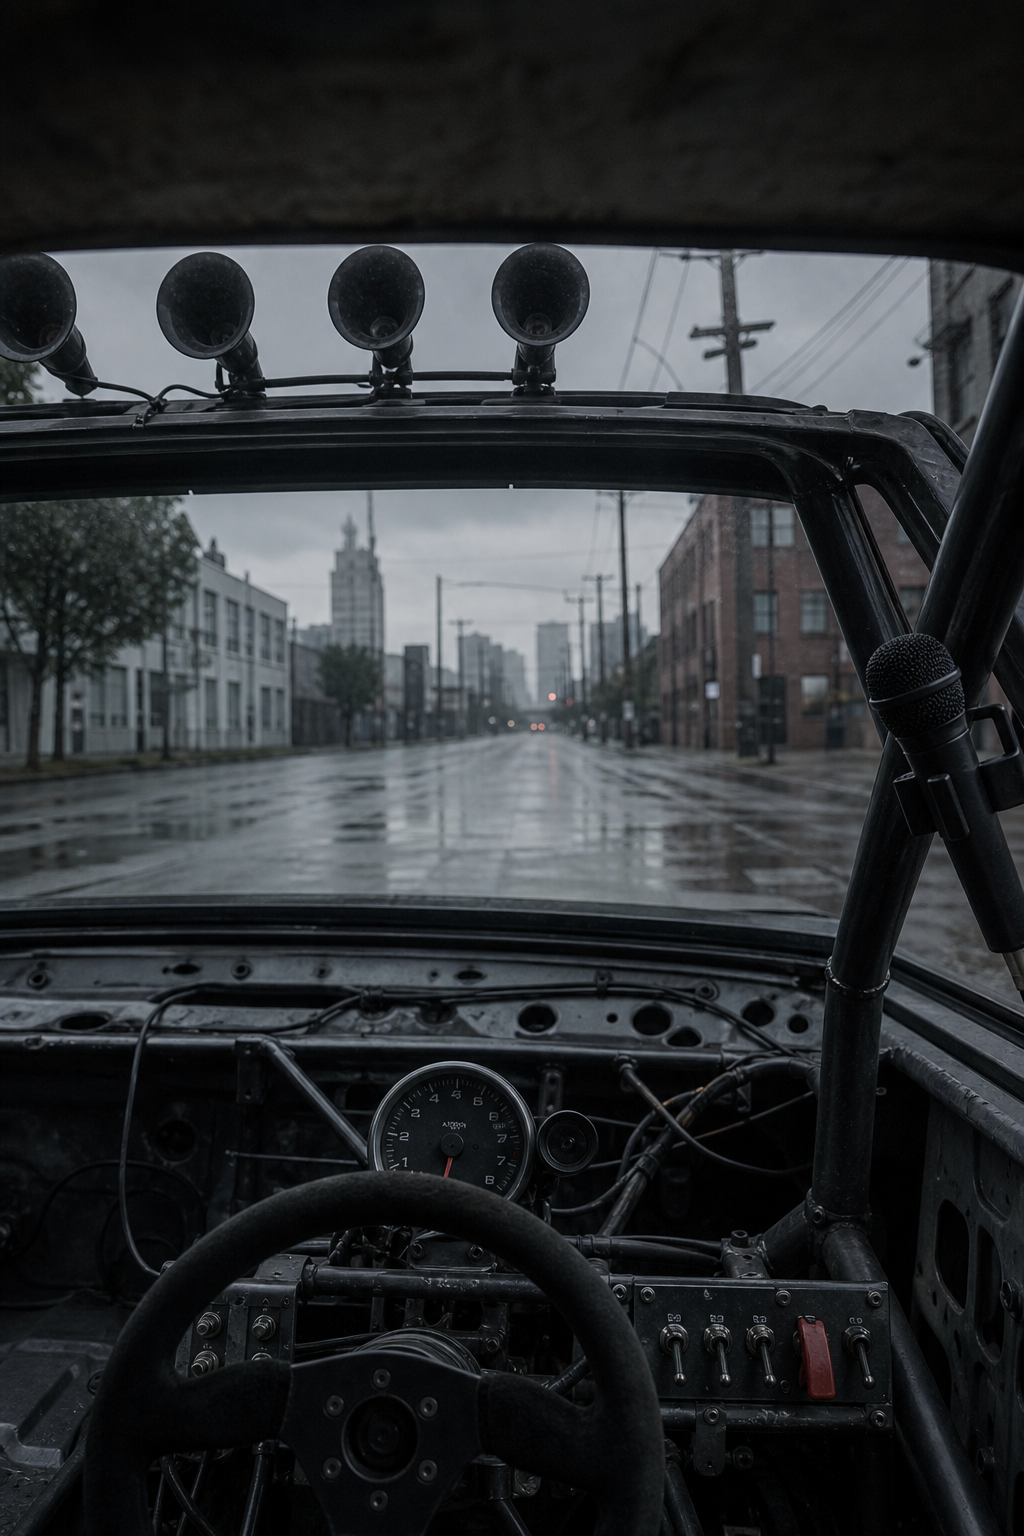
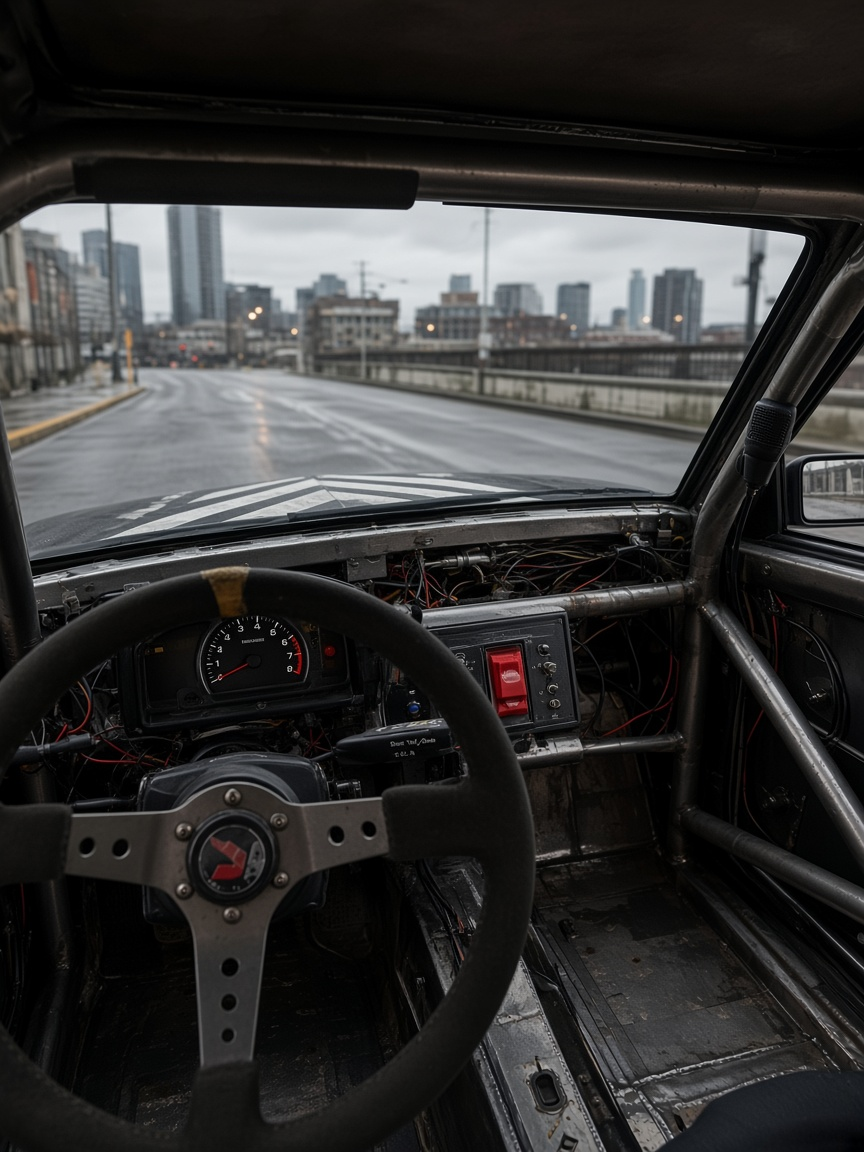
Draft IV-001 ride-along stills map and lock Encore glass.
Five named-spot briefs (count-in, brake, person, tracks, handoff),
four-take prompts, and the Y3 take 12 / Y4 take 4 plates so Batch D
can compile from intact glass. No scored IV-001 card.

diff --git a/cards/drafts/IV-001-stills-map.md b/cards/drafts/IV-001-stills-map.md
@@ -1,0 +1,123 @@
+# IV-001 — Batch D stills map
+
+Draft authority: `cards/drafts/IV-001-ridealong-lines.md`. Not a scored card. No `cards/IV-001.json`.
+
+Five frames, each a named spot — same job as III-001's left / merge / horn stills. Not a text slideshow on one cockpit. Bike (line 9) is a later tap, not this batch.
+
+Driver: `yuna`. Continuity: Encore cockpit (Y4 take 4) + stock-glass-first sheet (Y3 take 12). Overcast PNW daylight through intact glass. No cooler / COLD. No Quiet. Dead in-ears around Yuna's neck, **both out**. Ali on the welded rear bench; she does not touch the wheel until frame 5.
+
+Attachments on every compile: `ref_encore_cockpit.png`, `ref_encore_sheet.png`. Add `ref_yuna.png` / `ref_yuna_sheet.png` on count-in. Add `ref_ali2.png` on handoff. Stock-glass-first if any exterior peek; never put cage, bench, or stripped dash in an exterior clause.
+
+| Frame | Slug | Line | Named spot | Camera (explicit) |
+|---|---|---|---|---|
+| 1 | `IV-001-count-in` | 1 | the count-in | On the welded rear bench, looking forward-left. Yuna occupies the **left third of the FRAME**; rain-dotted windshield + street occupy the **right two-thirds**. |
+| 2 | `IV-001-brake` | 3 | covering the brake | Low in the driver footwell, looking down at the pedals. Brake pedal **center of the FRAME**. Windshield + light only in the **top fifth**, soft. |
+| 3 | `IV-001-person` | 5 | the person between parked cars | On the bench, looking forward-right through glass. The living pedestrian is **right-center of the FRAME**, curb distance. Wheel + Yuna's hands **lower-left**. |
+| 4 | `IV-001-tracks` | 7 | tracks in the lane | On the bench, looking forward and slightly **down** through glass. Wet rails **center of the FRAME**, running away in this lane. Wheel **bottom-left**. |
+| 5 | `IV-001-handoff` | 12 | the empty seat / wheel | On the bench, looking forward-left at the empty driver seat. Empty seat **left-center**. Empty suede wheel **lower-left**. Ali reaching from the **right** of the FRAME. |
+
+Takes: `cards/takes/<slug>-take-N.png` (N = 1–4). Prompts: `cards/takes/<slug>.prompt.txt`.
+
+---
+
+## Shared lock (every frame)
+
+Encore cockpit match: small suede-wrapped racing wheel on the **left** (LHD), stripped metal dash, exposed taped wiring, one aftermarket tach, toggle panel with one large guarded red switch left off, welded roll-cage tubes at the A-pillars, enclosed solid roof, dead wireless mic on the right cage tube. Intact windshield is a real glass plane with raindrops on the outside — not an open hole, not mesh, not a bar cage over the glass. Do not show roof PA horns from inside.
+
+Ali, frames 1–4: on the mismatched welded rear bench. Hands on her knees. Not on the wheel.
+
+---
+
+## Frame 1 — the count-in (line 1)
+
+**Line:** Count me in. One — two. Watch the street, not my mouth.
+
+```json
+{
+  "slug": "IV-001-count-in",
+  "camera": "POV_COCKPIT",
+  "camera_pose": "Camera sits on the mismatched welded rear bench, slightly left of cabin center, looking forward and a little left. Yuna in the driver seat occupies the left third of the FRAME, seen from behind her right shoulder (three-quarter from behind). Intact rain-dotted windshield and the wet downtown street occupy the right two-thirds of the FRAME. The suede wheel sits in the lower-left quadrant under her left hand.",
+  "subject": "Yuna mid count-in: right hand raised at chest height on a two-beat, mouth barely open, eyes on the street through the glass not at camera. Dead in-ear monitors around her neck, both earpieces out and dangling on the cropped black windbreaker. Asymmetric chin-length bob, platinum under-layer, thin braid at her right temple with retroreflective tape.",
+  "foreground": "welded rear-bench cushion along the bottom edge; Ali's hands rest on her own knees — they do not touch the wheel; a cage tube at the right edge",
+  "midground": "Yuna in the left seat, count-in hand, empty right half of the stripped dash, guarded red switch off",
+  "background": "overcast downtown Seattle through rain-dotted intact glass, wet pavement, no readable signs",
+  "read": "Yuna is counting in with her hand; both in-ears are out around her neck; the street is visible through intact glass",
+  "continuity": ["encore_cockpit", "encore", "yuna"]
+}
+```
+
+## Frame 2 — covering the brake (line 3)
+
+**Line:** Cover the brake before the light even thinks about yellow. Foot off the gas. Held. Not riding it.
+
+```json
+{
+  "slug": "IV-001-brake",
+  "camera": "POV_OBJECT",
+  "camera_pose": "Camera is low in the left-hand-drive driver footwell, near the dead pedal, looking down and slightly forward at the pedal box. The brake pedal occupies the center of the FRAME. Intact windshield and a distant traffic light occupy only the top fifth of the FRAME, out of focus. No faces.",
+  "subject": "a right foot in a black high-top covering the brake pedal, held still, not pumping, not riding the pedal. The gas pedal to the right of the brake is empty — no foot on it.",
+  "foreground": "worn metal pedals with rubber covers, painted floor, a roll-cage tube at the left edge of the FRAME",
+  "midground": "the covering foot and ankle, a sliver of black track pant; the empty gas pedal",
+  "background": "soft rain-dotted windshield; a yellow traffic light far ahead through glass, no readable sign legend",
+  "read": "the right foot covers the brake and is held; the gas is empty",
+  "continuity": ["encore_cockpit"]
+}
+```
+
+## Frame 3 — the person between parked cars (line 5)
+
+**Line:** Person between the parked cars. I do not own the right of way. I own the stop.
+
+Living pedestrian. Not the Quiet. Upright, ordinary clothes, mid-block.
+
+```json
+{
+  "slug": "IV-001-person",
+  "camera": "POV_COCKPIT",
+  "camera_pose": "Camera sits on the welded rear bench looking forward and slightly right through the intact windshield. The named spot — a living person in the gap between two parked cars — occupies the right-center of the FRAME, at curb distance beyond the glass. The suede wheel and Yuna's hands occupy the lower-left of the FRAME.",
+  "subject": "through rain-dotted intact glass, an ordinary living adult in a dark raincoat, upright and mid-step, appearing in the gap BETWEEN two parked sedans along the right curb. Not slack-shouldered, not filthy, not the Quiet. A person who might walk out.",
+  "foreground": "suede racing wheel; Yuna's hands at ten-and-two (light-medium skin, black windbreaker cuffs, retroreflective piping). Ali's hands on her knees on the bench at the bottom edge — not on the wheel.",
+  "midground": "rain-dotted windshield, roll-cage A-pillar at the right of the FRAME, two parked sedans on the right curb with a body-width gap",
+  "background": "overcast downtown block, wet pavement, no readable signs",
+  "read": "a living person is in the gap between parked cars on the right; Encore is looking at them through intact glass",
+  "continuity": ["encore_cockpit", "encore"]
+}
+```
+
+## Frame 4 — tracks in the lane (line 7)
+
+**Line:** Tracks in this lane. The train does not swerve. We do.
+
+```json
+{
+  "slug": "IV-001-tracks",
+  "camera": "POV_COCKPIT",
+  "camera_pose": "Camera sits on the welded rear bench looking forward and slightly down through the intact windshield. Wet streetcar rails in THIS travel lane occupy the center of the FRAME, starting at the hood line and running away. The suede wheel occupies the bottom-left of the FRAME.",
+  "subject": "wet steel streetcar tracks set into the asphalt of the lane Encore is in. The rails catch the overcast sky. They run straight. They do not swerve.",
+  "foreground": "suede racing wheel, Yuna's hands holding it; a sliver of silver chevron on the hood seen through the glass",
+  "midground": "two wet rails in the travel lane, rain-dotted windshield, painted lane line",
+  "background": "downtown Seattle street under overcast, no readable signs; if a streetcar exists it is distant and small, never filling the frame",
+  "read": "the tracks run in this lane; the train would not swerve",
+  "continuity": ["encore_cockpit", "encore"]
+}
+```
+
+## Frame 5 — the handoff with the empty seat (line 12)
+
+**Line:** Your wheel.
+
+Only frame Ali may touch the wheel. Yuna is not in the seat.
+
+```json
+{
+  "slug": "IV-001-handoff",
+  "camera": "POV_COCKPIT",
+  "camera_pose": "Camera sits on the welded rear bench looking forward-left at the empty driver seat and the empty suede wheel. The empty seat occupies the left-center of the FRAME. The empty wheel occupies the lower-left. Ali occupies the right of the FRAME as she reaches from the bench.",
+  "subject": "the driver seat is empty. The suede racing wheel has no hands on it until Ali's reaching hand. This is the handoff.",
+  "foreground": "mismatched welded rear bench; Ali (medium-brown skin, wire-rim glasses, cranberry lattice braid, gold hoop, pink raglan hoodie) leaning forward from the bench, right hand reaching the empty wheel",
+  "midground": "empty driver seat, empty suede wheel, stripped dash, guarded red switch off, dead in-ears left on the cage tube",
+  "background": "overcast street through rain-dotted intact glass. Yuna is not in the seat. If she appears at all it is only a sliver of black windbreaker at the left door, mostly out of frame.",
+  "read": "the driver seat is empty; Ali is taking the wheel from the bench",
+  "continuity": ["encore_cockpit", "encore", "ali"]
+}
+```

diff --git a/refs/LOCKS.md b/refs/LOCKS.md
@@ -13,12 +13,34 @@ Never mix panels across takes. Winners only.
 | Yuna turnaround | Y1 take 6 | `ref_yuna_sheet.png` | First four takes put the braid on her left. Take 6: braid at her right temple, right IEM in, left dangling, platinum under-layer. |
 | Yuna portrait | Y2 take 1 | `ref_yuna.png` | Right IEM in, left dangling; retroreflective piping flares; matches take-6 sheet. |
 | Ledger four-view | D3 take 2 | `ref_ledger_sheet.png` | Oversize convex mirrors are the silhouette; amber destination sign with no readable text. |
-| Encore four-view | Y3 take 3 | `ref_encore_sheet.png` | Wedge + four roof horns + chevrons; no mesh. All four takes stripped the glass — bible wants glass with no mesh. Silhouette still reads. Rerun before cockpit lock if glass matters. |
+| Encore four-view | **Y3 take 12** (stock-glass-first) | `ref_encore_sheet.png` | Intact factory glass on all four views — windshield, side glass, rear hatch. 1990s three-door wedge, tape, chevrons, four PA horns. Promoted from `ref_encore_sheet_y3_take12.png`. Take 3 moved to `ref_encore_sheet_y3_take3.png` (open cabin, history). |
 | Convoy silhouette | G1 take 2 | `ref_convoy.png` | Round / box / wedge reads at a glance. Only take that kept Encore's PA horns; 1, 3, 4 turned them into spotlights. Overcast PNW, no salt-flat bleed. |
 | II-007 card art | take 2 | `../cards/II-007.png` | Amber lamps lit; enough pavement that the open left lane reads. Invented fallen tree is compiler drift — do not carry into later Kent cards. Takes 3–4 lit the reds/brakes and are unusable. |
 | Ledger cockpit | D4 take 2 | `ref_ledger_cockpit.png` | Locked from `cards/takes/D4-take-2.png` (1 Sep 2026). Match this cab: worn three-spoke wheel, analog cluster, bar cage, thermos in the right cup, no clipboard on the mesh. Never the old poisoned cockpit. Never a Menace ref on Deac cards. |
-| Encore cockpit | Y4 take 1 | `ref_encore_cockpit.png` | Four PA horns, mic on the cage, guarded red switch. Takes 2 and 4 turned horns into spotlights. Glass may read as missing — compiler still forces intact glass on exteriors. |
+| Encore cockpit | **Y4 take 4** (provisional) | `ref_encore_cockpit.png` | Enclosed roof, no interior PA horns, wet downtown through the opening, mic on the right cage tube. Glass still needs Claude — raindrops did not land on this plate (see IV-002 take 3 for rain-on-glass). Old open-air lock archived as `ref_encore_cockpit_y4_take1.png`. Takes 1–3: take 1 has switch-label text; take 2 is a cabin overview; take 3 has Seattle but a more open hole. Interior cage and bench belong here; they must not appear in exterior briefs. |
 | The Quiet — register lock | A3 take 3 | `ref_quiet.png` | Attach on every Quiet compile. Filthy, slack-shouldered, head canted, doing nothing, seen through dirty glass. Wrongness of posture and stillness — not damage. Same file as `ref_quiet_a3.png`. |
 | Quiet plates | probe keeps | `ref_quiet_a1.png` `ref_quiet_a2.png` `ref_quiet_a3.png` `ref_quiet_a4.png` `ref_quiet_a5.png` | A1 take 3 still, facing away. A2 take 1 head tilt. A3 take 3 the register. A4 take 1 lot, spread, not converging. A5 take 3 the lunge — near-legible, once in the game. A1, A2, A4 are reference, not card art. |
 
 Ali face: prefer `ref_ali2.png` (wire-rim rounds + raglan hoodie). `ref_ali1.jpg` has thick black frames — do not mix.
+
+## Encore Y3 glass rerun
+
+**Approach change.** Takes 5–10 used the old exterior brief (stripped / gutted / roll cage / bucket seat / welded bench). Those are interior facts — they belong only in Y4. New Y3 prompt is stock-glass-first: intact factory hatchback, then tape, chevrons, roof horns. No interior hardware in the exterior brief.
+
+| Take | File | Glass | Notes |
+|---|---|---|---|
+| Y3 take 3 (old lock) | `ref_encore_sheet_y3_take3.png` | FAIL | Open cabins, all four views. History only. Was `ref_encore_sheet.png`. |
+| Y3 take 5 | `ref_encore_sheet_y3_take5.png` | FAIL | Dark voids, cage in open air. Old brief. |
+| Y3 take 6 | `ref_encore_sheet_y3_take6.png` | FAIL / maybe tint | Darker window fills than take 3; no specular. Old brief. |
+| Y3 take 7 | `ref_encore_sheet_y3_take7.png` | FAIL | Golf silhouette, empty openings. Old brief. |
+| Y3 take 8 | `ref_encore_sheet_y3_take8.png` | FAIL | Front/side open. Horns became spotlights. Old brief. |
+| Y3 take 9 | `ref_encore_sheet_y3_take9.png` | CLOSEST old-brief | Glass on three views; front-on reads as a dark void at sheet scale. Not locked. Composite source. |
+| Y3 take 10 | `ref_encore_sheet_y3_take10.png` | FAIL | Front 3/4 reflection only; other views open. Old brief. |
+| Y3 take 11 | `ref_encore_sheet_y3_take11.png` | PASS glass — not locked | Stock-glass-first 1×4. Glass on all four. Body drifted: modern five-door, weak tape, horn count inconsistent. Identity fail. |
+| Y3 take 9 composite A | `ref_encore_sheet_y3_take9_composite.png` | candidate | Take 9 + `ref_encore_front_on_glass_plate.png`, letterboxed. Front-on undersized. |
+| Y3 take 9 composite B | `ref_encore_sheet_y3_take9_composite_b.png` | candidate | Take 9 + front-on plate, width-matched. Clearest front-on specular. Mixed-generation panels; scale slightly large. |
+| **Y3 take 12 (LOCK)** | `ref_encore_sheet_y3_take12.png` → `ref_encore_sheet.png` | **PASS all four** | Stock-glass-first, take 9 attached as body ref only. Intact glass on windshield, sides, hatch. Same 1990s three-door as take 9. |
+
+Front-on plate used for the composites: `ref_encore_front_on_glass_plate.png`.
+
+Encore exterior compiles are **unblocked**. Compiler still appends the intact-glass clause and the no-interior-in-exterior rule (`scripts/compile-prompt.js`).

diff --git a/cards/drafts/IV-001-ridealong-lines.md b/cards/drafts/IV-001-ridealong-lines.md
@@ -1,0 +1,28 @@
+# IV-001 — Ride-along: Yuna's twelve
+
+Watch-layer debut. **Do not auto-generate the full card yet.** These twelve lines are for human review, then the card JSON (beats, stills, image brief) gets built by hand the way III-001 / pack/22 did.
+
+Yuna drives Encore. Ali rides the welded bench. Ali does not touch the wheel until the last line. Stage cadence — a count-in, then the street. She is loud and clean. Ali cannot decide skill vs luck. Ends on the handoff.
+
+Skill ten: city driving – part one. The Core. Encore. Intact glass, no mesh. Dead in-ears around her neck, both out.
+
+Driver token when the card is built: `yuna` (Encore cockpit lock). Attach `ref_encore_sheet.png` (Y3 take 12, stock-glass-first) and `ref_encore_cockpit.png` (Y4 take 4). Intact windshield glass, no mesh, no open cabin. Interior mods never appear in an exterior peek.
+
+She looks with her. Each line should later pan the glass; the brake, the person, the tracks, the bike, and the wheel are taps on the named spot — not a text slideshow on one still.
+
+Batch D stills (five named spots, four takes each) live in `cards/takes/IV-001-*-take-N.png`. Map and image briefs: `cards/drafts/IV-001-stills-map.md`. Do not invent a scored card JSON from these takes.
+
+---
+
+1. Count me in. One — two. Watch the street, not my mouth.
+2. Both in-ears out. If I drive for you I can hear the block.
+3. Cover the brake before the light even thinks about yellow. Foot off the gas. Held. Not riding it.
+4. That was clean. You are trying to decide if I am good or lucky. Stay undecided.
+5. Person between the parked cars. I do not own the right of way. I own the stop.
+6. Loud is the horns when a block is dying. Loud is not me clearing a street because I can.
+7. Tracks in this lane. The train does not swerve. We do.
+8. I take this gap because I counted it. Not because it looked like a show.
+9. Mirror. Shoulder. The bike was already in the lane I wanted. I kept mine.
+10. You felt that? That was skill. The next one might be luck. Do not clap yet.
+11. Hands on your knees. Eyes on my hands. Then on the road I leave you.
+12. Your wheel.
